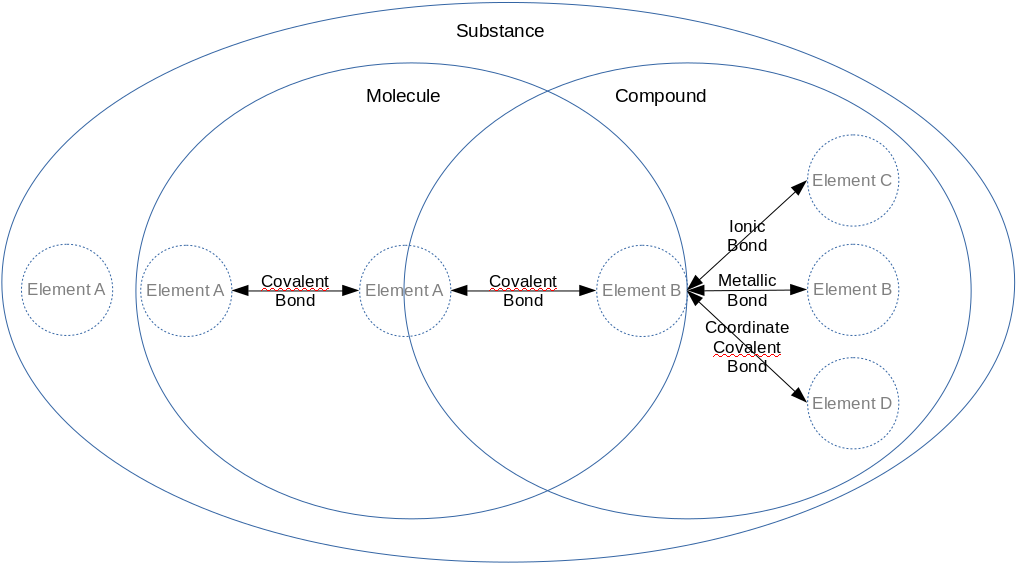
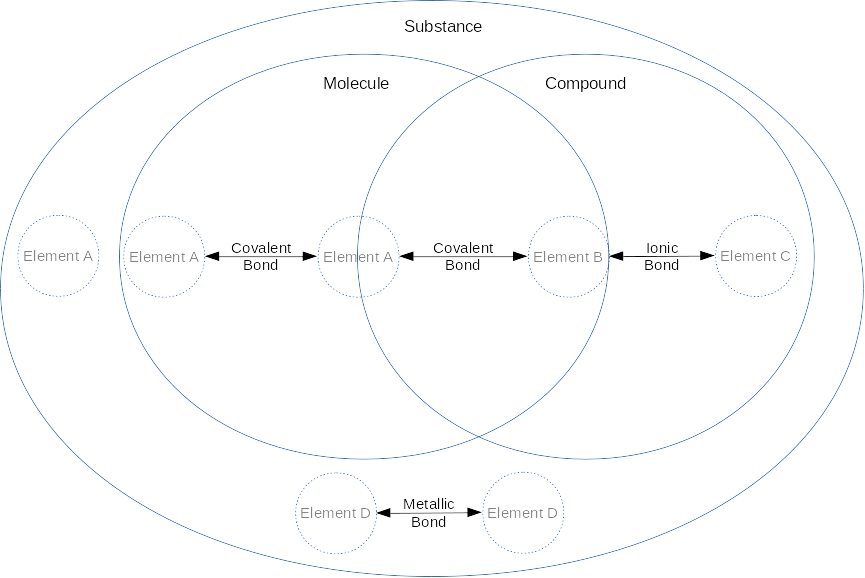
Clarify the major types of chemical bonds

diff --git a/index.md b/index.md
@@ -81,7 +81,7 @@ If two objects touch with a path permeable to heat, then, all else being equal, 
 
 # Atoms
 
-[Atoms][] are made of at least one proton and zero or more neutrons in the atom's [nucleus][] (thus both protons and neutrons may be called [nucleons][]), and zero or more [electrons][] orbiting the nucleus in [electron shells][]. Electron shells are also called [energy levels][energy level] because the shell number represents the relative potential energy of electrons in that shell. As electrons are in shells farther from the nuclear proton(s), their potential energies increase because of the additional potential electrostatic force. Therefore, an electron moving to a shell closer to the nucleus must lose energy (e.g. heat) and an electron moving to a shell farther away must absorb energy (e.g. light). Shells are subdivided into [subshells][electron subshells], and subshells are subdivided into [orbitals][] (discussed later).
+[Atoms][] are made of at least one proton and zero or more neutrons in the atom's [nucleus][] (both protons and neutrons may be called [nucleons][]), and zero or more [electrons][] orbiting the nucleus in [electron shells][]. Electron shells are also called [energy levels][energy level] because the shell number represents the relative potential energy of electrons in that shell. As electrons are in shells farther from the nuclear proton(s), their potential energies increase because of the additional potential electrostatic force. Therefore, an electron moving to a shell closer to the nucleus must lose energy (e.g. heat) and an electron moving to a shell farther away must absorb energy (e.g. light). Shells are subdivided into [subshells][electron subshells], and subshells are subdivided into [orbitals][] (discussed later).
 
 The number of nucleons is considered the [atomic mass number][] (A) since an atom's electrons' masses are so much relatively lighter than the nucleons' masses.
 
@@ -99,7 +99,7 @@ If an atom has an equal number of protons and electrons, then it is electrically
 
 There are 118 known chemical elements, 92 of which have been observed naturally, the rest synthesized, and only four elements (Carbon, Oxygen, Hydrogen, and Nitrogen) make up about 96% of a human's mass, with another 21 required in small amounts (mostly Calcium, Phosophorous, Potassium, Sulfur, Sodium, Chlorine, and Magnesium) ([Campbell & Reece, 2002, pg. 27][campbell & reece, 2002]).
 
-The [periodic table][] is a way to organize and understand the chemical elements based on observed patterns. The elements are ordered by atomic number (number of protons) from left to right, and starting again at the left when going down.
+The [periodic table][] is a way to organize and understand the chemical elements based on observed patterns. The elements are ordered by atomic number Z from left to right, and starting again at the left when going down.
 
 Within each square, the atomic number is at the top, followed by the element's symbol, followed by the element name, followed by its standard atomic weight (A<sub>r,std</sub>):
 
@@ -170,7 +170,7 @@ Generally, electron affinity increases from left to right (except for those with
 
 Most elements are [metals][] (although there are only two named metal groups): they are toward the left side of the periodic table (with the exception of Hydrogen), have low ionization energies, low electron affinity, are highly [electrically conductive][], [ductile][], and generally solid at standard temperature.
 
-[Nonmetals][] are the opposite of metals: they are toward the right side of the table (with the exception of Hydrogen), have high ionization energies, high electron affinities, are not very electrically conductive, and they are often gases (e.g. Hydrogen, Helium, etc.), although some are brittle solids (e.g. Carbon).
+[Nonmetals][] are the opposite of metals: they are toward the right side of the table, have high ionization energies, high electron affinities, are not very electrically conductive, and they are often gases (e.g. Hydrogen, Helium, etc.), although some are brittle solids (e.g. Carbon).
 
 There are a handful of [Metalloids][] which have properties of both metals and nonmetals and run down a diagonal in the p-block (e.g. Boron, Silicon, etc.).
 
@@ -186,13 +186,11 @@ After the [Big Bang][], the universe was mostly made of hydrogen, helium, and li
 
 # Chemistry (Continued)
 
-[Molecules][] and [chemical compounds][] are sets of two or more atoms held together by a [chemical bond][] because the atoms are more [stable][molecule stability] with that bond.
+Two or more atoms may be held together by [chemical bond][](s). The major types of bonds are:
 
-Types of chemical bonds based on [intramolecular forces][]:
-
-1. A molecule exists when a [covalent bond][] occurs where atoms share one or more pairs of electrons in their valence shells. For example, Hydrogen wants to gain an electron and Oxygen wants to gain two electrons, so it's common for two Hydrogens to each share their electron with one of the valence electrons in the Oxygen to form an Oxygen bonded with two Hydrogens, or water. A molecule is considered a compound if it's made of more than one type of element. Covalent bonds generally form between a metal and a non-metal. The strongest form of covalent bond is a [sigma bond][] (σ bond). Another, weaker form of covalent bond is a [pi bond][] (π bond).
-1. An [ionic compound][] or [salt][] exists when an [ionic bond][] occurs where one atom transfers electron(s) to another, creating a cation and anion, which may then cause electrostatic attraction of the oppositely charged ions. For example, the alkali metal Sodium (Na) wants to lose an electron, and the halogen Chlorine (Cl) wants to gain an electron, so Na may give its electron to Cl, thus making Na<sup>+</sup> and Cl<sup>-</sup> and then those two ions may bond due to the electrostatic force, forming NaCl (otherwise known as table salt). Ionic bonds generally form between two non-metals.
-1. An [intermetallic compound][] exists when a [metallic bond][] occurs where a set of cations share a sea of free electrons.
+1. A [covalent bond][] defines a [molecule][] and occurs when atoms share one or more pairs of electrons in their valence shells. For example, Hydrogen wants to gain an electron and Oxygen wants to gain two electrons, so it's common for two Hydrogens to each share their electron with one of the valence electrons in the Oxygen to form an Oxygen bonded with two Hydrogens, or water. A molecule is considered a [chemical compound][] if it's made of more than one type of element. The strongest form of a covalent bond is a [sigma bond][] (σ bond). Another, weaker form of a covalent bond is a [pi bond][] (π bond).
+1. An [ionic bond][] defines an [ionic compound][] or [salt][] when one atom transfers electron(s) to another, creating a cation and anion, which may then cause electrostatic attraction of the oppositely charged ions. For example, the alkali metal Sodium (Na) wants to lose an electron, and the halogen Chlorine (Cl) wants to gain an electron, so Na may give its electron to Cl, thus making Na<sup>+</sup> and Cl<sup>-</sup> and then those two ions may bond due to the electrostatic force, forming NaCl (otherwise known as table salt).
+1. A [metallic bond][] amongst positively charged metal cations in a sea of shared electrons.
 
 A [chemical substance][] is a set of one or more elements, molecules or compounds of the same composition (i.e. "pure"). A substance cannot be separated through physical means other than breaking chemical bonds (interpret the [venn diagram][] by the location of the bond arrows):
 
@@ -539,7 +537,7 @@ if (elements.length) {
 [celsius]: https://en.wikipedia.org/wiki/Celsius
 [chalcogens]: https://en.wikipedia.org/wiki/Chalcogen
 [chemical bond]: https://en.wikipedia.org/wiki/Chemical_bond
-[chemical compounds]: https://en.wikipedia.org/wiki/Chemical_compound
+[chemical compound]: https://en.wikipedia.org/wiki/Chemical_compound
 [chemical element]: https://en.wikipedia.org/wiki/Chemical_element
 [chemical equation]: https://en.wikipedia.org/wiki/Chemical_equation
 [chemical equilibrium]: https://www.khanacademy.org/science/chemistry/chemical-equilibrium/equilibrium-constant/v/reactions-in-equilibrium
@@ -682,8 +680,8 @@ if (elements.length) {
 [molecular entity]: http://goldbook.iupac.org/html/M/M03986.html
 [molecular formula]: https://en.wikipedia.org/wiki/Chemical_formula#Molecular_formula
 [molecular mass]: https://en.wikipedia.org/wiki/Molecular_mass
+[molecule]: https://en.wikipedia.org/wiki/Molecule
 [molecule stability]: https://en.wikipedia.org/wiki/Energy_level#Molecules
-[molecules]: https://en.wikipedia.org/wiki/Molecule
 [momentum]: https://en.wikipedia.org/wiki/Momentum
 [milky way galaxy]: https://en.wikipedia.org/wiki/Milky_Way
 [neutron radius]: https://en.wikipedia.org/wiki/Neutron#Description

diff --git a/unorganized.md b/unorganized.md
@@ -1,6 +1,10 @@
 # Unorganized
 
-A [polymer][] is a molecule made of repeating parts ([monomers][]). The process of creating polymers from monomers is called [polymerization][]. A homopolymer is created from just one type of monomer, whereas [copolymers][] may be created from more than one type of monomer. [Oligomers][] are polymers of a small, fixed number of monomers (e.g. [dimers][], [trimers][], [tetramers][], etc.).
+A [polymer][] is a molecule made of repeating parts called [monomers][] connected by covalent bonds. The process of creating polymers from monomers is called [polymerization][]. A monomer is simply a molecule that can undergo polymerization. A homopolymer is created from just one type of monomer, whereas [copolymers][] may be created from more than one type of monomer. [Oligomers][] are polymers of a small, fixed number of monomers (e.g. [dimers][], [trimers][], [tetramers][], etc.).
+
+A [macromolecule][] is a large molecule, often a large polymer. The most common biological macromolecules are carbohydrates, lipids, proteins, and nucleic acids. Lipids are not polymers because they aren't made of monomers connected by covalent bonds.
+
+Polymers are assembled through a process called [dehydration synthesis][] (or [condensation][] or Zimmer's hydrogensis) in which energy is consumed when two Hydrogens and an Oxygen at the ends of two monomers combine to form water, leaving the remaining monomers to covalently bond. [Hydrolysis][] is the opposite reaction.
 
 The electronegativities between Hydrogen and Carbon are close enough that [hydrocarbons are generally considered non-polar][hydrocarbons non-polar].
 
@@ -99,10 +103,13 @@ https://en.wikipedia.org/wiki/Alkyl#Nomenclature
 [carbon skeleton]: https://en.wikipedia.org/wiki/Skeletal_formula
 [cis-trans isomerisms]: https://en.wikipedia.org/wiki/Cis%E2%80%93trans_isomerism
 [copolymers]: https://en.wikipedia.org/wiki/Copolymer
+[dehydration synthesis]: https://en.wikipedia.org/wiki/Dehydration_reaction
 [dimers]: https://en.wikipedia.org/wiki/Dimer_(chemistry)
 [homopolymer]: https://en.wikipedia.org/wiki/Homopolymer
 [hydride]: https://en.wikipedia.org/wiki/Hydride
 [hydrocarbons non-polar]: https://en.wikipedia.org/wiki/Carbon%E2%80%93hydrogen_bond
+[hydrolysis]: https://en.wikipedia.org/wiki/Hydrolysis
+[macromolecule]: https://en.wikipedia.org/wiki/Macromolecule
 [methane]: https://en.wikipedia.org/wiki/Methane
 [methyl group]: https://en.wikipedia.org/wiki/Methyl_group
 [monomers]: https://en.wikipedia.org/wiki/Monomer
